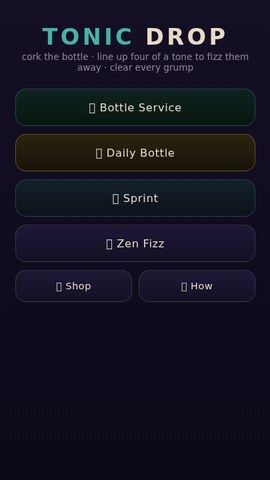
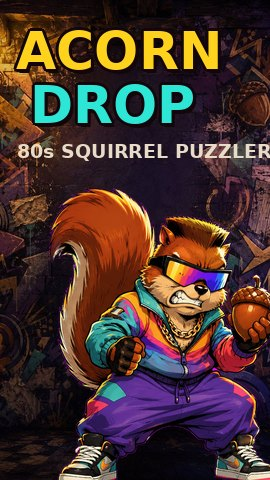
Acorn Drop: full 80s-graffiti-squirrel art wire-in + comic chat boxes
Skins the (procedural) Dr. Mario clone with Stephen's delivered art pack —
13 Midjourney sheets magenta-cut, sliced (connected-component), normalized,
and wired. Every draw guards on imgOk() and falls back to the original
procedural path, so the game still plays if any asset 404s.

Art:
- Board backdrops per BACKS theme (cellar/sunset/tide/amberroom) + title +
  acorn-burst win screen (assets/backgrounds/*.jpg, cover-fit 540x820/960).
- 4 hollow/bottle frames normalized so each transparent window lands exactly
  on the existing grid (x[94-446] y[96-800]) — drawn on top of the pieces,
  ZERO grid-geometry change (assets/sprites/hollow_*.png).
- Acorn tiles teal/amber/rose/gold-wild + grump faces (classic/sourpuss/
  fizzlings x tone) with shape badges preserved (colorblind law). Gated on the
  default Oakling capset so alt sets keep their procedural palette.
- Pest-clear burst FX (CUR.popFx) from assets/fx/burst_*.png.
- 80s b-boy squirrel mascot: title hero, win/lose poses, and an in-play
  "chat box" announcer (showToon) that pops comic bubbles with 80s-slang quips.

Chrome:
- 80s comic CSS: skewed wordmark, offset comic shadows, .toon-bubble speech
  bubbles, screen background images, NEXT-preview backing chip.
- Shop swatches now render the real acorns/frames/grump faces/backdrops live
  (procedural fallback + late-load repaint).
- New portal card thumbnail (comic wordmark + mascot on graffiti).

drawPiece now scales alpha by the caller's baseA so the translucent ghost
[…]

diff --git a/satellites/tonic-drop/index.html b/satellites/tonic-drop/index.html
@@ -82,6 +82,52 @@ h1 .a{color:var(--teal)} h1 .b{color:var(--cream)}
 .scard .buy{font-size:.66rem; color:var(--gold)}
 .howp{max-width:360px; color:var(--cream); font-size:.85rem; line-height:1.55; margin:8px 0}
 .howp b{color:var(--gold)} .howp .sym{color:var(--teal); font-weight:bold}
+
+/* ============================================================
+   80s COMIC LAYER — graffiti squirrel skin (Acorn Drop)
+   ============================================================ */
+#s-title{ background:linear-gradient(180deg,#140e26cc 0%, #0a0714e0 62%, #0a0714f6 100%),
+  url('assets/backgrounds/bg_title.jpg?v=ad1') center/cover no-repeat #0d0a14; }
+#s-over{ background:linear-gradient(180deg,#140e26d6 0%, #0a0714ee 74%, #0a0714fb 100%),
+  url('assets/backgrounds/bg_win.jpg?v=ad1') center/cover no-repeat #0d0a14; }
+#s-select,#s-shop,#s-how{ background:linear-gradient(180deg,#150f26f0 0%, #0a0714fa 100%),
+  url('assets/backgrounds/bg_cellar.jpg?v=ad1') center/cover no-repeat #0d0a14; }
+/* comic wordmark */
+#s-title h1{ font-size:2.9rem; font-weight:900; font-style:italic; letter-spacing:.02em;
+  transform:skewX(-7deg); margin-top:26px; line-height:1;
+  text-shadow: 3px 3px 0 #12060a, 4px 4px 0 #12060a, -1px -1px 0 #12060a, 0 0 22px rgba(200,168,75,.45); }
+#s-title h1 .a{ color:#ffd21e; } #s-title h1 .b{ color:#2ee6d6; }
+#s-title .tag{ font-weight:700; color:#e8dcc8; text-shadow:1px 1px 0 #12060a; max-width:330px; }
+/* halftone dot screen */
+.halftone{ background-image:radial-gradient(circle, rgba(0,0,0,.22) 1px, transparent 1.6px); background-size:6px 6px; }
+/* comic buttons */
+#s-title .btn, #s-over .btn{ font-weight:800; border-width:2px; border-color:#12060a;
+  box-shadow:3px 3px 0 #12060ac0; }
+#s-title .btn:active, #s-over .btn:active{ box-shadow:1px 1px 0 #12060ac0; transform:translate(2px,2px); }
+/* comic speech bubble (shared) */
+.toon-bubble{ position:relative; display:inline-block; background:#fff8ee; color:#1c0d12;
+  border:3px solid #12060a; border-radius:15px; box-shadow:4px 4px 0 #12060a;
+  padding:8px 15px; font-weight:900; font-style:italic; letter-spacing:.01em;
+  font-size:.98rem; text-transform:uppercase; line-height:1.12; }
+.toon-bubble:after{ content:""; position:absolute; left:26px; bottom:-15px; width:0; height:0;
+  border:9px solid transparent; border-top-color:#12060a; }
+.toon-bubble:before{ content:""; position:absolute; left:29px; bottom:-9px; width:0; height:0;
+  border:6px solid transparent; border-top-color:#fff8ee; z-index:1; }
+/* title mascot + greeting */
+.title-mascot{ position:absolute; right:-14px; bottom:0; width:232px; max-width:54%;
+  filter:drop-shadow(0 8px 10px #000b); pointer-events:none; z-index:2; }
+.title-hi{ position:absolute; right:118px; bottom:210px; z-index:3; transform:rotate(-5deg); pointer-events:none; }
+/* over-screen mascot + quip */
+.over-mascot{ width:150px; margin:2px 0 -6px; filter:drop-shadow(0 6px 8px #000b); }
+#over-quip{ margin:2px 0 10px; transform:rotate(-3deg); }
+/* in-play announcer (the 80s chat box) */
+#toon{ position:absolute; left:10px; bottom:150px; z-index:41; display:none;
+  align-items:flex-end; gap:2px; pointer-events:none; max-width:420px; }
+#toon.on{ display:flex; animation:toonpop .34s cubic-bezier(.2,1.5,.45,1); }
+#toon-face{ width:84px; height:auto; margin-right:-6px; margin-bottom:-2px;
+  filter:drop-shadow(0 4px 6px #000b); }
+#toon-say{ margin-bottom:20px; }
+@keyframes toonpop{ 0%{ transform:translateY(20px) scale(.55); opacity:0 } 60%{ opacity:1 } 100%{ transform:none; opacity:1 } }
 </style>
 </head>
 <body>
@@ -116,6 +162,8 @@ h1 .a{color:var(--teal)} h1 .b{color:var(--cream)}
     <button class="btn sm" id="b-shop">🛒 Shop</button>
     <button class="btn sm" id="b-how">❓ How</button>
   </div>
+  <img class="title-mascot" src="assets/ui/mascot_hero.png?v=ad1" alt="" onerror="this.style.display='none'">
+  <div class="title-hi toon-bubble">Ready to<br>stash, chief?</div>
 </div>
 
 <div class="screen" id="s-select">
@@ -128,6 +176,8 @@ h1 .a{color:var(--teal)} h1 .b{color:var(--cream)}
 <div class="screen" id="s-over">
   <h1 style="font-size:1.5rem" id="over-title">STASH CLEARED</h1>
   <div class="tag" id="over-sub">—</div>
+  <img id="over-mascot" class="over-mascot" src="assets/ui/mascot_roar.png?v=ad1" alt="" onerror="this.style.display='none'">
+  <div id="over-quip" class="toon-bubble">STASH SECURED!</div>
   <div id="overstats">
     <div class="chip"><b id="ov-score">0</b><span>score</span></div>
     <div class="chip"><b id="ov-grumps">0</b><span>pests</span></div>
@@ -155,6 +205,7 @@ h1 .a{color:var(--teal)} h1 .b{color:var(--cream)}
   <button class="btn sm" id="how-back" style="margin-top:10px">← back</button>
 </div>
 
+<div id="toon"><img id="toon-face" src="assets/ui/mascot_point.png?v=ad1" alt="" onerror="this.style.display='none'"><div id="toon-say" class="toon-bubble">STASH IT!</div></div>
 <div id="toast"></div>
 <div id="buildstamp"></div>
 </div></div>
@@ -275,6 +326,55 @@ function bottleSkin(){ return BOTTLES[PROG.bottle]||BOTTLES["amber-glass"]; }
 function backSkin(){ var b=BACKS[PROG.back]; if(!b||!b.top)b=BACKS.cellar; return b; }
 
 /* ============================================================
+   ART ASSETS — sprite skin over the procedural draws (graffiti squirrel).
+   Every draw guards on imgOk() and falls back to the procedural path,
+   so the game is fully playable even if an asset 404s.
+   ============================================================ */
+var ART_V="ad1", _IMG={};
+function img(p){ if(!_IMG[p]){ var im=new Image(); im.onload=_artLoaded; try{ im.src="assets/"+p+"?v="+ART_V; }catch(e){} _IMG[p]=im; } return _IMG[p]; }
+function imgOk(im){ return !!(im&&im.complete&&im.naturalWidth>0); }
+/* if the shop is open when a late asset arrives, repaint its swatches once */
+var _shopDirty=false;
+function _artLoaded(){ var s=$("s-shop"); if(s&&s.classList.contains("on")&&!_shopDirty){ _shopDirty=true;
+  setTimeout(function(){ _shopDirty=false; var ss=$("s-shop"); if(ss&&ss.classList.contains("on"))renderShop(); }, 140); } }
+var BACK_IMG={ cellar:"bg_cellar", sunset:"bg_sunset", tide:"bg_tide", amberroom:"bg_amberroom" };
+var BOTTLE_IMG={ "amber-glass":"hollow_amber", "sea-glass":"hollow_sea", "cut-crystal":"hollow_crystal", "apothecary":"hollow_apothecary" };
+var ACORN_IMG=["acorn_teal","acorn_amber","acorn_rose","acorn_wild"]; /* tone 0..3 */
+var TONE_NAME=["teal","amber","rose"];                                 /* grump/burst tone 0..2 */
+/* the delivered art skins ONLY the default Oakling tones (teal/amber/rose/gold);
+   other capsule sets keep the procedural colored tiles so colors stay consistent. */
+function usingArtSet(){ return (PROG.capset||"tonic")==="tonic"; }
+function preloadArt(){ var k,i,j,fams=["classic","sourpuss","fizzlings"];
+  for(k in BACK_IMG)img("backgrounds/"+BACK_IMG[k]+".jpg");
+  img("backgrounds/bg_title.jpg"); img("backgrounds/bg_win.jpg");
+  for(k in BOTTLE_IMG)img("sprites/"+BOTTLE_IMG[k]+".png");
+  for(i=0;i<ACORN_IMG.length;i++)img("sprites/"+ACORN_IMG[i]+".png");
+  for(i=0;i<fams.length;i++)for(j=0;j<3;j++)img("sprites/grump_"+fams[i]+"_"+TONE_NAME[j]+".png");
+  for(i=0;i<3;i++)img("fx/burst_"+TONE_NAME[i]+".png");
+  var mm=["mascot_hero","mascot_point","mascot_roar","mascot_leap","mascot_stance","mascot_peace"];
+  for(i=0;i<mm.length;i++)img("ui/"+mm[i]+".png");
+}
+
+/* ---------- mascot announcer (the 80s chat box) ---------- */
+var TOON_POSE={ hype:"mascot_point", hero:"mascot_hero", win:"mascot_roar", lose:"mascot_leap", stance:"mascot_stance", peace:"mascot_peace" };
+var QUIP_START=["STASH IT!","LET'S GO NUTS!","PACK IT TIGHT!","FOUR OR MORE!","GET CRACKIN'!"];
+var QUIP_CHAIN=["RADICAL!","NICE CRACK!","TOTALLY NUTS!","COMBO, BABY!","GNARLY!","CHAIN IT!","BOOM!"];
+var QUIP_GRUMP=["PEST BUSTED!","EAT ACORN!","GET OUTTA MY TREE!","POW!","STASHED 'EM!"];
+var QUIP_WIN=["STASH SECURED!","TUBULAR!","WINTER'S SET!","NUTS ABOUT YOU!","TOP OF THE TREE!"];
+var QUIP_LOSE=["JAMMED UP!","AW, NUTS...","SHAKE IT OFF!","RUN IT BACK!","ALMOST HAD IT!"];
+function quip(a,seed){ return a[(seed>>>0)%a.length]; }
+var _toonT=null;
+function showToon(text,mood){
+  var el=$("toon"); if(!el)return;
+  var f=$("toon-face"); if(f){ var m=TOON_POSE[mood]||"mascot_point"; f.src="assets/ui/"+m+".png?v="+ART_V; }
+  var s=$("toon-say"); if(s)s.textContent=text;
+  el.classList.remove("on"); void el.offsetWidth; el.classList.add("on");
+  if(_toonT)clearTimeout(_toonT);
+  _toonT=setTimeout(function(){ el.classList.remove("on"); }, 1700);
+}
+function hideToon(){ var el=$("toon"); if(el)el.classList.remove("on"); if(_toonT)clearTimeout(_toonT); }
+
+/* ============================================================
    CORE ENGINE — grid arrays. tone: -1 empty, 0..2 tone, 3 wild.
    kind: 0 empty, 1 grump, 2 capsule-half.  link: 0 none, 1 up,2 right,3 down,4 left
    ============================================================ */
@@ -348,7 +448,10 @@ function findMatches(){
 function markCount(mark){ var n=0,i; for(i=0;i<W*H;i++)if(mark[i])n++; return n; }
 function clearMarked(mark){
   var i, cleared=0, grumps=0;
-  for(i=0;i<W*H;i++){ if(mark[i]){ if(K[i]===1)grumps++; cleared++; T[i]=-1; K[i]=0; L[i]=0; } }
+  for(i=0;i<W*H;i++){ if(mark[i]){
+    if(K[i]===1){ grumps++;
+      if(CUR&&!CUR.synthetic&&CUR.popFx&&CUR.popFx.length<40){ var _x=i%W; CUR.popFx.push({x:_x,y:(i-_x)/W,t:(T[i]<0?0:T[i]),life:1.0}); } }
+    cleared++; T[i]=-1; K[i]=0; L[i]=0; } }
   /* relink: any half whose partner is gone becomes loose */
   for(i=0;i<W*H;i++){ if(K[i]===2&&L[i]!==0){
     var x=i%W,y=(i-x)/W, px=x,py=y, l=L[i];
@@ -502,7 +605,9 @@ function postLock(){
     CUR.score+=pts;
     CUR.caps+=r.grumps*2 + r.chains;
     CUR.grumpsLeft=countGrumps();
-    if(!CUR.synthetic){ sndFizz(Math.min(4,r.chains)); if(r.grumps>0)sndGrump(); CUR.flashT=10; }
+    if(!CUR.synthetic){ sndFizz(Math.min(4,r.chains)); if(r.grumps>0)sndGrump(); CUR.flashT=10;
+      if(r.grumps>0) showToon(quip(QUIP_GRUMP, (CUR.ticks+r.grumps)>>>0), "hype");
+      else if(r.chains>=2) showToon(quip(QUIP_CHAIN, (CUR.ticks+r.chains)>>>0), "hype"); }
   }
   var grumpWin=(CUR.mode==="service"||CUR.mode==="daily"||CUR.mode==="sprint");
   if(grumpWin && CUR.grumpsLeft===0){ doWin(); return; }
@@ -548,6 +653,9 @@ function doWin(){
   $("ov-caps").textContent=CUR.caps;
   $("over-next").style.display=(CUR.mode==="service"&&CUR.level<19)?"":"none";
   $("over-next").textContent="NEXT STASH →";
+  hideToon();
+  var _omw=$("over-mascot"); if(_omw)_omw.src="assets/ui/"+TOON_POSE.win+".png?v="+ART_V;
+  var _oqw=$("over-quip"); if(_oqw)_oqw.textContent=quip(QUIP_WIN,(CUR.score+CUR.grumpsTotal)>>>0);
   setTimeout(function(){ if(CUR&&CUR.phase==="won")show("s-over"); }, 900);
 }
 function doOver(){
@@ -559,6 +667,9 @@ function doOver(){
   $("ov-grumps").textContent=(CUR.grumpsTotal-CUR.grumpsLeft);
   $("ov-caps").textContent=CUR.caps;
   $("over-next").style.display="none";
+  hideToon();
+  var _oml=$("over-mascot"); if(_oml)_oml.src="assets/ui/"+TOON_POSE.lose+".png?v="+ART_V;
+  var _oql=$("over-quip"); if(_oql)_oql.textContent=quip(QUIP_LOSE,(CUR.score+CUR.grumpsTotal)>>>0);
   setTimeout(function(){ if(CUR&&CUR.phase==="over")show("s-over"); }, 900);
 }
 
@@ -600,16 +711,24 @@ function drawSym(c,shape,x,y,r,col,dark){
 function toneColor(t){ if(t===3)return "#f3e18a"; return toneCols()[t]||"#888"; }
 function toneShape(t){ if(t===3)return "star"; return SYM[t]||"disc"; }
 function drawPiece(c,t,px,py,cell,isGrump,linkDir){
-  var cx=px+cell/2, cy=py+cell/2, r=cell*0.30, col=toneColor(t);
-  /* capsule/pill body */
-  c.fillStyle=col; c.globalAlpha=0.16; c.fillRect(px+3,py+3,cell-6,cell-6); c.globalAlpha=1;
+  var cx=px+cell/2, cy=py+cell/2, r=cell*0.30, col=toneColor(t), baseA=c.globalAlpha;
+  /* ART SPRITE PATH — default Oakling set only (keeps tone colours consistent) */
+  if(usingArtSet()){
+    var sp;
+    if(isGrump){ sp=img("sprites/grump_"+(PROG.grump||"classic")+"_"+(TONE_NAME[t]||"teal")+".png"); }
+    else { sp=img("sprites/"+(ACORN_IMG[t]||"acorn_teal")+".png"); }
+    if(imgOk(sp)){ var pd=isGrump?0:1; try{ c.drawImage(sp,px+pd,py+pd,cell-pd*2,cell-pd*2); }catch(e){} return; }
+  }
+  /* capsule/pill body — scale every alpha by the caller's baseA so the
+     translucent ghost preview stays translucent on ALL capsets + during load */
+  c.fillStyle=col; c.globalAlpha=baseA*0.16; c.fillRect(px+3,py+3,cell-6,cell-6); c.globalAlpha=baseA;
   /* connector nub toward partner */
-  if(linkDir){ c.fillStyle=col; c.globalAlpha=0.5;
+  if(linkDir){ c.fillStyle=col; c.globalAlpha=baseA*0.5;
     if(linkDir===1)c.fillRect(cx-cell*0.16,py+1,cell*0.32,cell*0.4);
     else if(linkDir===3)c.fillRect(cx-cell*0.16,cy,cell*0.32,cell*0.4);
     else if(linkDir===2)c.fillRect(cx,cy-cell*0.16,cell*0.4,cell*0.32);
     else if(linkDir===4)c.fillRect(px+1,cy-cell*0.16,cell*0.4,cell*0.32);
-    c.globalAlpha=1; }
+    c.globalAlpha=baseA; }
   /* rounded body */
   c.fillStyle=col; c.strokeStyle="rgba(0,0,0,0.35)"; c.lineWidth=1.5;
   roundRect(c,px+4,py+4,cell-8,cell-8,isGrump?cell*0.34:cell*0.26); c.fill(); c.stroke();
@@ -632,19 +751,29 @@ function roundRect(c,x,y,w,h,r){ c.beginPath(); c.moveTo(x+r,y); c.arcTo(x+w,y,x
 function render(){
   if(!CUR)return;
   var bk=backSkin(), bs=bottleSkin(), cell=PF.cell, ox=PF.ox, oy=PF.oy, x,y,i;
-  var grd=ctx.createLinearGradient(0,0,0,820); grd.addColorStop(0,rgb(bk.top)); grd.addColorStop(1,rgb(bk.bot));
-  ctx.fillStyle=grd; ctx.fillRect(0,0,540,820);
-  /* bottle neck + cork */
+  var bgi=img("backgrounds/"+(BACK_IMG[PROG.back]||"bg_cellar")+".jpg");
+  if(imgOk(bgi)){ ctx.drawImage(bgi,0,0,540,820); }
+  else { var grd=ctx.createLinearGradient(0,0,0,820); grd.addColorStop(0,rgb(bk.top)); grd.addColorStop(1,rgb(bk.bot));
+    ctx.fillStyle=grd; ctx.fillRect(0,0,540,820); }
+  /* bottle: art hollow frame (drawn on top AFTER pieces) or procedural fallback */
   var bw=W*cell, bh=H*cell;
-  ctx.fillStyle=bs.glass; ctx.fillRect(ox-6,oy-6,bw+12,bh+12);
-  ctx.strokeStyle=bs.rim; ctx.lineWidth=3; ctx.strokeRect(ox-6,oy-6,bw+12,bh+12);
-  ctx.fillStyle=bs.rim; ctx.globalAlpha=0.8;
-  ctx.fillRect(ox+cell*3-4,oy-30,cell*2+8,26); ctx.globalAlpha=1;
-  ctx.fillStyle="#c8a84b"; ctx.fillRect(ox+cell*3, oy-40, cell*2, 14);
+  var frameI=img("sprites/"+(BOTTLE_IMG[PROG.bottle]||"hollow_amber")+".png");
+  var artFrame=imgOk(frameI);
+  if(!artFrame){
+    ctx.fillStyle=bs.glass; ctx.fillRect(ox-6,oy-6,bw+12,bh+12);
+    ctx.strokeStyle=bs.rim; ctx.lineWidth=3; ctx.strokeRect(ox-6,oy-6,bw+12,bh+12);
+    ctx.fillStyle=bs.rim; ctx.globalAlpha=0.8;
+    ctx.fillRect(ox+cell*3-4,oy-30,cell*2+8,26); ctx.globalAlpha=1;
+    ctx.fillStyle="#c8a84b"; ctx.fillRect(ox+cell*3, oy-40, cell*2, 14);
+  } else {
+    /* recess tint so the play well reads as a shadowed hollow behind the frame */
+    ctx.fillStyle="rgba(6,4,12,0.30)"; ctx.fillRect(ox,oy,bw,bh);
+  }
   /* faint grid */
-  ctx.strokeStyle=bs.wall; ctx.lineWidth=1;
+  ctx.strokeStyle=bs.wall; ctx.lineWidth=1; ctx.globalAlpha=artFrame?0.42:1;
   for(x=0;x<=W;x++){ ctx.beginPath(); ctx.moveTo(ox+x*cell,oy); ctx.lineTo(ox+x*cell,oy+bh); ctx.stroke(); }
   for(y=0;y<=H;y++){ ctx.beginPath(); ctx.moveTo(ox,oy+y*cell); ctx.lineTo(ox+bw,oy+y*cell); ctx.stroke(); }
+  ctx.globalAlpha=1;
   /* settled pieces */
   for(y=0;y<H;y++)for(x=0;x<W;x++){ i=idx(x,y);
     if(K[i]===0)continue;
@@ -671,13 +800,32 @@ function render(){
     if(inb(p[0],p[1])) ctx.strokeRect(ox+p[0]*cell+1.5, oy+p[1]*cell+1.5, cell-3, cell-3);
     ctx.restore();
   }
+  /* burst FX on cleared pests (over pieces, under the frame) */
+  if(CUR.popFx&&CUR.popFx.length){
+    for(var pf=CUR.popFx.length-1; pf>=0; pf--){ var f=CUR.popFx[pf];
+      var sz=cell*(0.9+(1-f.life)*1.1), bx=ox+f.x*cell+cell/2, by=oy+f.y*cell+cell/2;
+      ctx.globalAlpha=Math.max(0,f.life);
+      var bi=usingArtSet()?img("fx/burst_"+(TONE_NAME[f.t]||"teal")+".png"):null;
+      if(bi&&imgOk(bi)){ try{ ctx.drawImage(bi,bx-sz/2,by-sz/2,sz,sz); }catch(e){} }
+      else { ctx.fillStyle=toneColor(f.t); ctx.beginPath(); ctx.arc(bx,by,sz*0.34,0,6.283); ctx.fill(); }
+      ctx.globalAlpha=1;
+      f.life-=0.07; if(f.life<=0)CUR.popFx.splice(pf,1);
+    }
+  }
   /* fizz flash */
   if(CUR.flashT>0){ ctx.fillStyle="rgba(255,235,150,"+(0.10*CUR.flashT/10)+")"; ctx.fillRect(ox-6,oy-6,bw+12,bh+12); }
-  /* next preview in neck area */
-  ctx.fillStyle="rgba(232,220,200,0.55)"; ctx.font="11px sans-serif"; ctx.textAlign="left";
-  ctx.fillText("next",14,oy+10);
+  /* art hollow frame on top (border + cork cap the well edges) */
+  if(artFrame){ try{ ctx.drawImage(frameI,0,0,540,820); }catch(e){} }
+  /* next preview chip (top-left neck, sits cleanly over the frame) */
+  ctx.save();
+  ctx.fillStyle="rgba(11,8,18,0.74)"; roundRect(ctx,6,oy+1,76,45,11); ctx.fill();
+  ctx.strokeStyle="rgba(200,168,75,0.55)"; ctx.lineWidth=1.5; roundRect(ctx,6,oy+1,76,45,11); ctx.stroke();
+  ctx.restore();
+  ctx.fillStyle="rgba(232,220,200,0.72)"; ctx.font="bold 9px sans-serif"; ctx.textAlign="left";
+  ctx.fillText("NEXT",12,oy+12);
   if(CUR.queue&&CUR.queue.length){ var nq=CUR.queue[0];
-    drawPiece(ctx,nq.a,10,oy+16,30,false,2); drawPiece(ctx,nq.b,40,oy+16,30,false,4); }
+    drawPiece(ctx,nq.a,10,oy+15,30,false,0); drawPiece(ctx,nq.b,44,oy+15,30,false,0); }
+  ctx.textAlign="left";
   /* win/over overlay text */
   if(CUR.phase==="won"||CUR.phase==="over"){
     ctx.fillStyle=CUR.phase==="won"?"rgba(120,220,150,0.9)":"rgba(230,120,110,0.9)";
@@ -703,8 +851,9 @@ function beginPlay(mode,arg,opts){
   $("h-stage").textContent = mode==="service" ? "Stash "+(CUR.level+1) : MODES[mode].name;
   $("h-note").textContent = mode==="zen" ? "no fail · free gather" : "match four to crack";
   updateHud(); running=true; CUR.fallAcc=0;
+  showToon(quip(QUIP_START, (CUR.seed^(CUR.level+1))>>>0), "hype");
 }
-function stopToMenu(){ running=false; CUR=null; $("hud").classList.remove("on"); $("dock").classList.remove("on"); show("s-title"); stamp(); }
+function stopToMenu(){ running=false; CUR=null; hideToon(); $("hud").classList.remove("on"); $("dock").classList.remove("on"); show("s-title"); stamp(); }
 
 function renderSelect(){
   var g=$("lvlgrid"); g.innerHTML="";
@@ -723,17 +872,33 @@ function renderSelect(){
 function drawSwatch(cv,it){
   var c=cv.getContext("2d"), Wc=cv.width, Hc=cv.height;
   c.clearRect(0,0,Wc,Hc);
-  if(it.key==="capset"){ var cols=(CAPSETS[it.id]||CAPSETS.tonic).cols, k;
+  if(it.key==="capset"){
+    if(it.id==="tonic"){ var nm=["acorn_teal","acorn_amber","acorn_rose"], kk, sz=Math.min(Hc-8,(Wc-12)/3), ok=true;
+      for(kk=0;kk<3;kk++)if(!imgOk(img("sprites/"+nm[kk]+".png")))ok=false;
+      if(ok){ for(kk=0;kk<3;kk++){ var aim=img("sprites/"+nm[kk]+".png"), axx=6+kk*((Wc-12)/3)+(((Wc-12)/3)-sz)/2;
+        try{ c.drawImage(aim,axx,(Hc-sz)/2,sz,sz); }catch(e){} } return; } }
+    var cols=(CAPSETS[it.id]||CAPSETS.tonic).cols, k;
     for(k=0;k<3;k++){ var px=8+k*((Wc-16)/3); drawPieceSwatch(c,cols[k],SYM[k],px+((Wc-16)/6),Hc/2,Math.min(Hc,(Wc-16)/3)*0.42); } }
-  else if(it.key==="bottle"){ var b=BOTTLES[it.id]; c.fillStyle=b.glass; c.fillRect(6,6,Wc-12,Hc-12);
+  else if(it.key==="bottle"){
+    var fim=img("sprites/"+(BOTTLE_IMG[it.id]||"hollow_amber")+".png");
+    if(imgOk(fim)){ var fs=Math.min((Wc-4)/540,(Hc-2)/820), fw=540*fs, fh=820*fs;
+      try{ c.drawImage(fim,(Wc-fw)/2,(Hc-fh)/2,fw,fh); }catch(e){} return; }
+    var b=BOTTLES[it.id]; c.fillStyle=b.glass; c.fillRect(6,6,Wc-12,Hc-12);
     c.strokeStyle=b.rim; c.lineWidth=3; c.strokeRect(6,6,Wc-12,Hc-12);
     c.fillStyle=b.rim; c.globalAlpha=0.8; c.fillRect(Wc/2-9,2,18,8); c.globalAlpha=1; }
-  else if(it.key==="grump"){ var g=GRUMPS[it.id], cx=Wc/2, cy=Hc/2, r=Math.min(Wc,Hc)*0.32;
+  else if(it.key==="grump"){
+    var gim=img("sprites/grump_"+it.id+"_rose.png");
+    if(imgOk(gim)){ var gz=Math.min(Wc,Hc)-6; try{ c.drawImage(gim,(Wc-gz)/2,(Hc-gz)/2,gz,gz); }catch(e){} return; }
+    var g=GRUMPS[it.id], cx=Wc/2, cy=Hc/2, r=Math.min(Wc,Hc)*0.32;
     c.fillStyle="#d76a86"; roundRect(c,cx-r,cy-r,r*2,r*2,r*0.7); c.fill();
     c.fillStyle="rgba(0,0,0,0.72)"; c.beginPath(); c.arc(cx-r*0.4,cy-r*0.1,r*0.15,0,6.283); c.fill(); c.beginPath(); c.arc(cx+r*0.4,cy-r*0.1,r*0.15,0,6.283); c.fill();
     c.strokeStyle="rgba(0,0,0,0.72)"; c.lineWidth=2; c.beginPath(); c.arc(cx,cy+r*0.6,r*0.5,3.6,5.8); c.stroke();
     if(g.brow>0){ c.beginPath(); c.moveTo(cx-r*0.6,cy-r*0.45); c.lineTo(cx-r*0.15,cy-r*0.22); c.moveTo(cx+r*0.6,cy-r*0.45); c.lineTo(cx+r*0.15,cy-r*0.22); c.lineWidth=g.brow*1.6; c.stroke(); } }
-  else { var bk=BACKS[it.id]||BACKS.cellar; var gr=c.createLinearGradient(0,0,0,Hc); gr.addColorStop(0,rgb(bk.top)); gr.addColorStop(1,rgb(bk.bot)); c.fillStyle=gr; c.fillRect(4,4,Wc-8,Hc-8); }
+  else { var bgn=BACK_IMG[it.id];
+    if(bgn){ var bim=img("backgrounds/"+bgn+".jpg");
+      if(imgOk(bim)){ var scv=Math.max((Wc-8)/540,(Hc-8)/820), iw=540*scv, ih=820*scv;
+        c.save(); c.beginPath(); c.rect(4,4,Wc-8,Hc-8); c.clip(); try{ c.drawImage(bim,(Wc-iw)/2,(Hc-ih)/2,iw,ih); }catch(e){} c.restore(); return; } }
+    var bk=BACKS[it.id]||BACKS.cellar; var gr=c.createLinearGradient(0,0,0,Hc); gr.addColorStop(0,rgb(bk.top)); gr.addColorStop(1,rgb(bk.bot)); c.fillStyle=gr; c.fillRect(4,4,Wc-8,Hc-8); }
 }
 function drawPieceSwatch(c,col,shape,x,y,r){ c.fillStyle=col; roundRect(c,x-r,y-r,r*2,r*2,r*0.5); c.fill(); drawSym(c,shape,x,y,r*0.62,"rgba(255,255,255,0.9)",true); }
 function renderShop(){
@@ -834,6 +999,7 @@ function loop(ts){
   } else if(CUR&&!CUR.synthetic&&(CUR.phase==="won"||CUR.phase==="over")){ render(); }
 }
 stamp();
+preloadArt();
 requestAnimationFrame(loop);
 
 /* ============================================================
